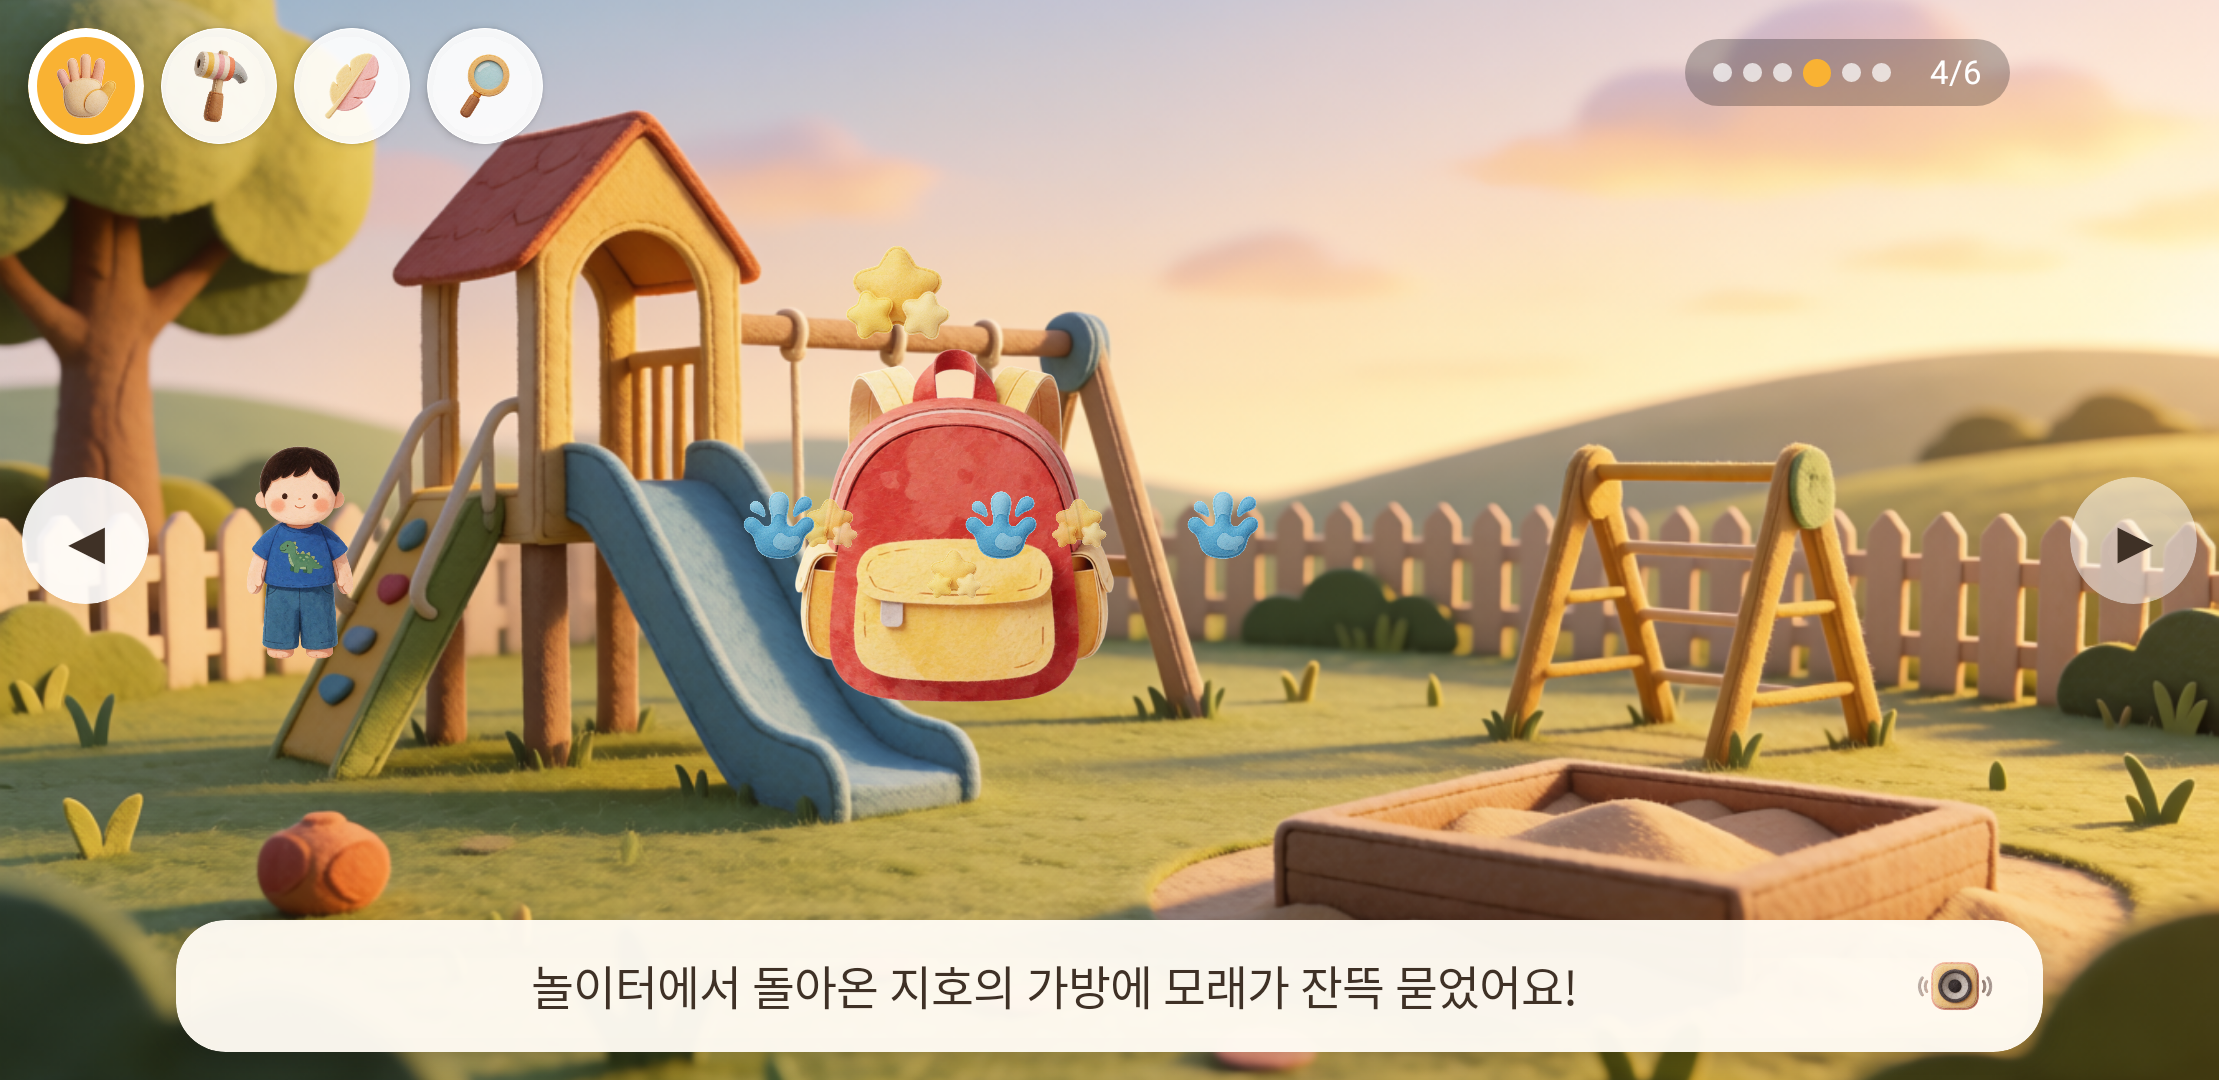
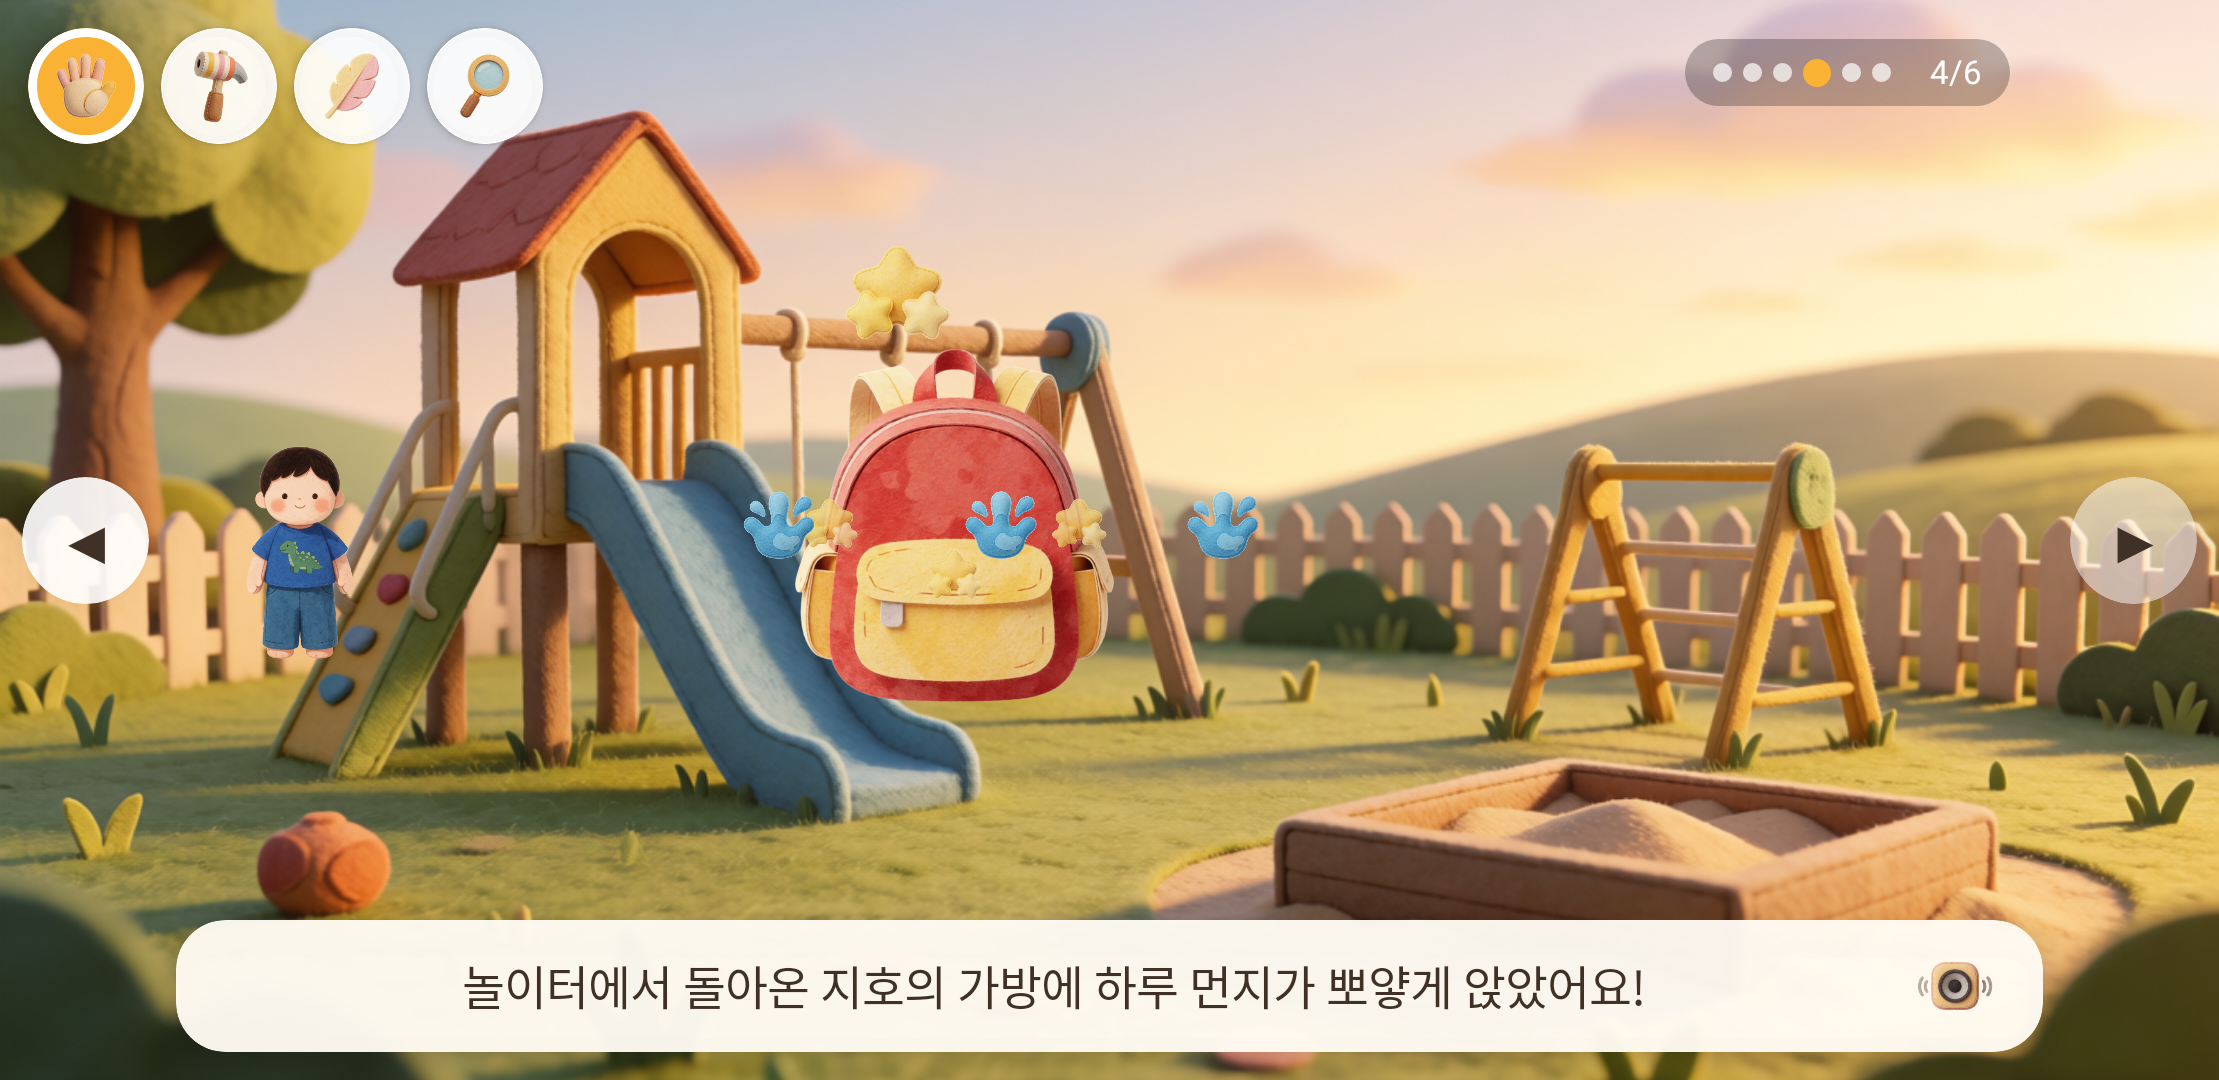
feat: add coherent diary demo flow and truthful fallbacks

Changed region(s): [[0.2177, 0.8861, 0.7463, 0.9472]]

diff --git a/android/app/src/main/java/com/example/finalproject_demo/demo/DiaryBank.kt b/android/app/src/main/java/com/example/finalproject_demo/demo/DiaryBank.kt
@@ -11,7 +11,7 @@ package com.example.finalproject_demo.demo
  * 질문을 왜 늘렸나 (9/21 사용자 요청)
  *   처음 설계는 기승전결 네 질문뿐이었다. 네 문장으로는 책 여섯 쪽을 채울 재료가 안 되고,
  *   빈 자리를 마스코트가 메우는 만큼 **아이의 하루가 아니라 LLM의 문장이 책을 차지한다**.
- *   그래서 **네 자리는 그대로 두고 자리마다 꼬리질문을 붙였다** — 총 열 걸음, 8~12턴.
+ *   그래서 **네 자리는 그대로 두고 자리마다 꼬리질문을 붙였다** — 총 열한 걸음, 8~12턴.
  *   꼬리질문의 답은 슬롯 12종의 `extra`("위 어디에도 안 맞는 것 · 원문 그대로")에 쌓인다.
  *   **새 칸 이름을 만들지 않았다.** 판정 스키마도 평가셋 100개도 그대로다.
  *
@@ -87,7 +87,7 @@ private fun DemoState.hadTrouble(): Boolean {
 }
 
 /**
- * 열 걸음 — 기승전결 네 자리(필수)와 그 사이의 꼬리질문 여섯.
+ * 열한 걸음 — 기승전결 네 자리(필수)와 그 사이의 꼬리질문 일곱.
  *
  * | | 칸 | 묻는 것 | 필수 |
  * |---|---|---|---|
@@ -98,6 +98,7 @@ private fun DemoState.hadTrouble(): Boolean {
  * | 승 | `reaction` | 기분이 어땠어 | |
  * | 전 | `cause` | 왜 그랬을까 (**S1**) | ✅ |
  * | 전 | `extra`(said) | 그 사람이 뭐라고 했어 | |
+ * | 전 | `extra`(try) | 나는 어떻게 해 봤어 | |
  * | 결 | `solution` | 그래서 어떻게 됐어 (S2) | ✅ |
  * | 결 | `extra`(after) | 다 끝나고 뭐 했어 | |
  * | 맺음 | `extra`(keep) | 내일 또 하고 싶은 거 | |
@@ -180,7 +181,7 @@ val DIARY_STEPS: List<DiaryStep> = listOf(
                 Answer("달리다가 넘어져서 무릎 아팠어.", "넘어짐|달리다가 넘어져 무릎이 아팠어요", el = setOf("결과"), emo = "아팠", con = true, lv = 3),
             )
         },
-        mascot = { Answer("재미있게 논 날", "재미있게 놀았어|재미있게 놀았어요") },
+        mascot = { Answer("아직 못 들은 오늘 이야기", "아직 못 들은 일|오늘 있었던 일은 아직 다 듣지 못했어요") },
     ),
 
     DiaryStep(
@@ -242,8 +243,10 @@ val DIARY_STEPS: List<DiaryStep> = listOf(
             // 일이 어긋났을 때만 "왜 그랬을까?" — 그냥 즐거웠던 날에 물으면 물을 데가 없다
             if (it.hadTrouble()) listOf(
                 "왜 그렇게 됐을까?",
-                "$w${eun(w)} 왜 그랬을 것 같아?",
-                "그래서 $c${eun(c)} 어떻게 했어?",
+                if (it.companionKind.isNotBlank() && "혼자" !in it.companionKind)
+                    "$w${eun(w)} 왜 그랬을 것 같아?"
+                else "무엇 때문에 그런 일이 생겼을까?",
+                "그 일이 생기기 전에 무슨 일이 있었어?",
             ) else listOf(
                 "그게 왜 제일 좋았어?",
                 "$c${eun(c)} 그거 할 때 왜 신났을까?",
@@ -256,6 +259,7 @@ val DIARY_STEPS: List<DiaryStep> = listOf(
                 Answer("몰라.", "", lv = 1),
                 Answer("그냥.", "", lv = 1),
                 Answer("실수로 그런 거야.", "실수였어|실수였다고 했어요", reason = true, lv = 2),
+                Answer("블록을 너무 높이 쌓아서 무너졌어.", "너무 높이 쌓아서|블록을 너무 높이 쌓아 무너졌어요", reason = true, el = setOf("계기"), con = true, lv = 3),
                 Answer("나 울었어. 그래서 선생님이 왔어.", "울어서 선생님이 왔어|$c${ga(c)} 울자 선생님이 다가왔어요", el = setOf("시도", "결과"), con = true, lv = 2),
                 Answer("재밌으니까! 빠르니까 좋아.", "빨라서 재밌었어|빠르게 내려가는 게 신나서 좋았어요", reason = true, con = true, lv = 2),
                 Answer("나랑 놀고 싶어서 그랬나 봐.", "같이 놀고 싶었어|같이 놀고 싶어서 그랬대요", reason = true, con = true, lv = 3),
@@ -348,7 +352,7 @@ val DIARY_STEPS: List<DiaryStep> = listOf(
                 Answer("${w}랑 같이 하기로 했어. 그래서 또 놀았어.", "같이 하기로 했어|$w${wa(w)} 같이 하기로 하고 다시 즐겁게 놀았어요", el = setOf("시도", "결과"), con = true, lv = 3),
             )
         },
-        mascot = { Answer("집에 온 것", "그러고 집에 왔어|그러고 나서 집으로 돌아왔어요") },
+        mascot = { Answer("아직 못 들은 뒷이야기", "아직 못 들은 뒷이야기|그 뒤에 어떻게 되었는지는 아직 듣지 못했어요") },
     ),
 
     DiaryStep(
@@ -400,6 +404,24 @@ val DIARY_STEPS: List<DiaryStep> = listOf(
 
 /** 기승전결 네 자리 — 진행 막대와 `story_ready` 가 이것만 센다 */
 val DIARY_REQUIRED = DIARY_STEPS.filter { it.required }
+
+/** One coherent demo day. Each reply also exists in the normal scripted answers. */
+private val DIARY_DEMO_REPLY = mapOf(
+    "place" to "어린이집!",
+    "companion" to "민준이랑 놀았어.",
+    "problem" to "블록 쌓았는데 무너졌어.",
+    "detail" to "높이높이 쌓았어.",
+    "reaction" to "속상했어.",
+    "cause" to "블록을 너무 높이 쌓아서 무너졌어.",
+    "said" to "괜찮냐고 물어봤어.",
+    "try" to "다시 해 봤어.",
+    "solution" to "다시 쌓았어! 이번엔 안 무너졌어.",
+    "after" to "목욕하고 책 읽었어.",
+    "keep" to "내일은 안 무너지게 쌓을 거야. 밑을 튼튼하게 하면 돼.",
+)
+
+fun DiaryStep.demoAnswer(s: DemoState): Answer? =
+    DIARY_DEMO_REPLY[bookKey]?.let { text -> answers(s).firstOrNull { it.text == text } }
 
 /** 순차 답인가 — 잇는 말은 있는데 까닭이 없다. 여기서 S1로 세면 안 된다 (일기 §4-4) */
 fun Answer.isSequential(): Boolean = con && !reason && el.isEmpty()
@@ -468,7 +490,8 @@ fun diaryTemplate(s: DemoState): StoryTemplate {
         // ── 결 · 그래서 어떻게 됐나 ─────────────────────────────
         add(
             PageSpec(PageKind.DRAG) { st ->
-                joinWith("마침내", line(st, "solution", "그러고 나서 하루가 저물었어요.")) + " " + st.m2Caption()
+                val ending = line(st, "solution", "그 뒤의 이야기는 아직 듣지 못했어요.")
+                (if (st.slotBy["solution"] == "mascot") ending else joinWith("마침내", ending)) + " " + st.m2Caption()
             }
         )
         // ── 맺음 · 하루의 끝과 내일 ─────────────────────────────

diff --git a/android/app/src/main/java/com/example/finalproject_demo/demo/DiaryScenes.kt b/android/app/src/main/java/com/example/finalproject_demo/demo/DiaryScenes.kt
@@ -33,7 +33,7 @@ fun Director.diaryEnded(): Boolean {
     return false
 }
 
-/** 기승전결 네 자리가 다 찼나 — 열 걸음을 다 물은 뒤에만 본다 */
+/** 기승전결 네 자리가 다 찼나 — 모든 질문을 다 물은 뒤에만 본다 */
 private fun Director.diaryReadyNow(): Boolean = DIARY_REQUIRED.all { diaryFilled(it.slot) }
 
 /** 답에서 칸 값 꺼내기. "몰라"처럼 값이 없는 답은 빈 문자열이다 */
@@ -128,7 +128,7 @@ suspend fun Director.sceneDiary() {
         say("$c${ya(c)}, 오늘 뭐 했어? 나한테 들려줄래?")
         log("일기 모드 S3′ — 같은 러너 · 같은 판정 · 같은 무응답 흐름을 쓴다. 다른 것은 질문 세트와 칸 목록뿐이다 (일기 §1)")
     }
-    log("열 걸음 — 기승전결 네 자리(필수)와 꼬리질문 여섯. 꼬리질문 답은 슬롯 12종의 `extra` 에 원문으로 쌓여 책의 재료가 된다")
+    log("${DIARY_STEPS.size}걸음 — 기승전결 네 자리(필수)와 꼬리질문 ${DIARY_STEPS.size - DIARY_REQUIRED.size}. 꼬리질문 답은 기존 슬롯의 `extra` 등에 쌓여 책의 재료가 된다")
     log("⚠ 일기 질문은 동화 모드보다 어렵다 — 상상이 아니라 기억을 꺼내야 한다. 같은 아이가 낮은 수준으로 나올 수 있다 (일기 §4-5 · 수준 공유 여부는 §7-3 열린 항목)")
     pause(1700)
 
@@ -179,9 +179,12 @@ private suspend fun Director.askDiaryStep(step: DiaryStep) {
             fallback = step.mascot?.invoke(s),
             spoken = v.answers(s),
             drawAnswer = diaryDrawAnswer(step),
-            extra = listOf(
-                DemoBtn("⏱ (시연) 15분 지난 것으로 — 끝나는 조건 셋째") { s.diaryTimeUp = true; send(Reply.Silent) },
-            ),
+            extra = buildList {
+                if (!s.isCoop) step.demoAnswer(s)?.let { a ->
+                    add(DemoBtn("🎬 오늘 이야기 시연 답 — \"${a.text}\"") { send(Reply.Spoke(a.text, a.value, a)) })
+                }
+                add(DemoBtn("⏱ (시연) 15분 지난 것으로 — 끝나는 조건 셋째") { s.diaryTimeUp = true; send(Reply.Silent) })
+            },
             id = v.id,
         )
         val r = askOrCoopAsk(q)                 // 협업이면 소리 없이 부모 띠에 띄운다 (CoopScenes.kt)
@@ -331,7 +334,7 @@ private suspend fun Director.finishDiary() {
         "timeout" -> "15분 경과"
         else -> "story_ready (기승전결 네 자리)"
     }
-    val tails = listOf("companion", "detail", "reaction", "said", "after", "keep").count { s.slots[it] != null }
+    val tails = DIARY_STEPS.filterNot { it.required }.count { s.slots[it.bookKey] != null }
     log("일기 모드 끝 — 끝난 조건: $why · 아이 · 카드가 채운 필수 칸 $bySelf/4 · 꼬리질문으로 더 모은 문장 ${tails}개 (이만큼 마스코트가 메울 자리가 줄었다)")
     coopFinishLog()                             // 협업 쪽은 CoopScenes.kt (진웅)
     say("오늘 이야기가 다 모였어! 이제 동화책으로 만들어 줄게.")

diff --git a/android/app/src/test/java/com/example/finalproject_demo/DiaryTest.kt b/android/app/src/test/java/com/example/finalproject_demo/DiaryTest.kt
@@ -48,7 +48,7 @@ class DiaryTest {
         partnerKey = partner
     }
 
-    /** 아이가 열 걸음을 다 말한 하루 */
+    /** 아이가 열한 걸음을 다 말한 하루 */
     private fun DemoState.fillAll() {
         placeLabel = "놀이터"; place = "놀이터"; slots["place"] = "놀이터에 갔어요"; slotBy["place"] = "child"
         author["place"] = "child"
@@ -220,6 +220,28 @@ class DiaryTest {
     }
 
     @Test
+    fun whyLadderDoesNotAskAboutAnUnknownFriendOrTheNextAction() {
+        val cause = DIARY_STEPS.first { it.slot == "cause" }
+        val alone = diaryState().apply { problem = "블록이 무너짐"; companionKind = "혼자" }
+        val rungs = cause.rungs(alone)
+        assertTrue("혼자인데 친구의 마음을 묻는다", rungs.none { "그 친구" in it })
+        assertTrue("까닭 질문에서 다음 행동을 묻는다", rungs.none { "어떻게 했어" in it })
+    }
+
+    @Test
+    fun silenceFallbacksDoNotRecordUnreportedActivitiesAsFacts() {
+        val s = diaryState()
+        val problem = DIARY_STEPS.first { it.slot == "problem" }.mascot!!.invoke(s).value
+        val solution = DIARY_STEPS.first { it.slot == "solution" }.mascot!!.invoke(s).value
+        assertFalse("놀았다는 말을 듣지 않았는데 기록했다", "놀았" in problem)
+        assertFalse("집에 왔다는 말을 듣지 않았는데 기록했다", "집에 왔" in solution)
+        s.solution = diarySlotOf(solution)
+        s.slots["solution"] = diaryLineOf(solution)!!
+        s.slotBy["solution"] = "mascot"
+        assertFalse("답을 못 들은 쪽에 '마침내'가 붙었다", s.bookCaption(5).startsWith("마침내"))
+    }
+
+    @Test
     fun theMascotNeverInventsAPlaceOrAPerson() {
         // 일기 §3-2 — 데이터는 by 가 지켜 주지만, 아이가 가지 않은 곳이 그 아이의 하루로 적히는 것은 내용 문제다
         val place = DIARY_STEPS.first { it.slot == "place" }.mascot!!.invoke(diaryState())
@@ -265,6 +287,7 @@ class DiaryTest {
         // 미션 1 — ① 아이가 말한 일이 먼저다 (9/21: 장소만 보다가 엉뚱한 미션이 나왔다)
         assertEquals("물감", diaryState().apply { placeLabel = "놀이터"; problem = "그림 그리기" }.mission1().blobName)
         assertEquals("모래", diaryState().apply { placeLabel = "어린이집"; problem = "모래놀이" }.mission1().blobName)
+        assertEquals("블록 놀이를 물감 놀이로 바꿨다", "먼지", diaryState().apply { placeLabel = "어린이집"; problem = "블록이 무너짐" }.mission1().blobName)
         // ② 말한 일에서 못 찾으면 장소에서
         assertEquals("모래", diaryState().apply { placeLabel = "놀이터" }.mission1().blobName)
         assertEquals("물감", diaryState().apply { placeLabel = "어린이집" }.mission1().blobName)

diff --git a/android/app/src/main/java/com/example/finalproject_demo/demo/Behind.kt b/android/app/src/main/java/com/example/finalproject_demo/demo/Behind.kt
@@ -49,13 +49,13 @@ fun behindText(scene: Scene): String = when (scene) {
           아이가 가지 않은 곳이 그 아이의 하루로 적히는 것은 **내용 문제**다 [§3-2]
         • 빈 자리는 이야기로 메우고 `by: mascot`으로 남긴다 → 책 자막에는 나오고
           주고받기 횟수 · 수준 신호 · 리포트 원문 인용 · 「말한 방식」 원그래프에서는 빠진다 [§5 · §5-1]
-        • **열 걸음** — 기승전결 네 자리(필수) + 꼬리질문 여섯(누구랑 · 뭐 하고 있었어 · 기분 · 뭐라고 했어 · 다 끝나고 · 내일)
-          꼬리질문 답은 슬롯 12종의 `extra` 에 원문으로 쌓여 **책의 재료가 된다.** 새 칸 이름은 만들지 않았다
+        • **열한 걸음** — 기승전결 네 자리(필수) + 꼬리질문 일곱(누구랑 · 뭐 하고 있었어 · 기분 · 뭐라고 했어 · 내가 해 본 일 · 다 끝나고 · 내일)
+          꼬리질문 답은 기존 슬롯의 `extra` 등에 쌓여 **책의 재료가 된다.** 새 칸 이름은 만들지 않았다
         • **흐름은 앞 답에서 나온다** — 장소를 들으면 "{장소}에서 무슨 일이 있었어?", 사람을 들으면 "{누구}가 뭐라고 했어?"가 열리고,
           아무도 없었으면 그 걸음을 건너뛴다. 일이 어긋났을 때만 "왜 그랬을까?", 그냥 즐거웠으면 "그게 왜 제일 좋았어?"
         • 배경은 아이가 말한 곳에 맞춘다 (놀이터 · 어린이집 · 할머니 집 · 공원 · 마트 · 집).
           실제 앱은 세션 중에 만들고(규칙 8), 데모는 미리 만든 6장에서 고른다. 맞는 게 없으면 **엉뚱한 곳을 보여 주지 않고** 색으로 둔다
-        • 미션도 하루에서 나온다 — 놀이터면 모래, 어린이집이면 물감, 공원이면 나뭇잎을 턴다.
+        • 미션은 아이가 말한 일을 먼저 본다. 말한 일에서 못 찾았을 때만 놀이터면 모래, 어린이집이면 물감, 공원이면 나뭇잎을 턴다.
           건넬 것도 아이가 말한 것에서: 블록 · 그림책 · 반창고 · 딸기 · 별
         • 아직 안 정한 것: §7-3 수준 공유 · §7-4 완전 무응답 · §7-5 15분 · §7-6 사다리 뒤 그림 3장 · §7-2 월 권수
 

diff --git a/android/app/src/test/java/com/example/finalproject_demo/DiaryFlowTest.kt b/android/app/src/test/java/com/example/finalproject_demo/DiaryFlowTest.kt
@@ -3,6 +3,7 @@ package com.example.finalproject_demo
 import com.example.finalproject_demo.demo.Director
 import com.example.finalproject_demo.demo.Scene
 import com.example.finalproject_demo.demo.StoryMode
+import com.example.finalproject_demo.demo.bookCaption
 import com.example.finalproject_demo.demo.pageCount
 import kotlinx.coroutines.CoroutineScope
 import kotlinx.coroutines.SupervisorJob
@@ -137,6 +138,33 @@ class DiaryFlowTest {
         assertTrue("아이 말이 인용으로 남지 않았다", s.quotes.isNotEmpty())
         // 배경이 아이가 말한 곳을 따라갔는가
         assertNotEquals("배경이 상상 세계 그대로다", "bg_space", s.bgName)
+    }
+
+    @Test
+    fun diaryDemoAnswersTellOneConsistentDayThroughTheBook() = run { d ->
+        val s = d.s
+        s.mode = StoryMode.DIARY
+        d.go(Scene.DIARY)
+        assertTrue(await { s.buttons.any { "🎬 오늘 이야기 시연 답" in it.label } } != null)
+
+        val turns = d.answerAll("🎬 오늘 이야기 시연 답")
+        assertEquals("시연 답이 모든 질문을 끝까지 잇지 못했다", 11, turns)
+        assertTrue(await { s.buttons.any { "안 그릴래" in it.label } } != null)
+        assertTrue(d.tap("안 그릴래"))
+        assertTrue(await(8_000) { s.scene == Scene.MAKING || s.scene == Scene.BOOK } != null)
+
+        assertEquals("어린이집", s.place)
+        assertEquals("민준이", s.companionKind)
+        assertEquals("블록이 무너짐", s.problem)
+        assertEquals("너무 높이 쌓아서", s.cause)
+        assertEquals("다시 쌓았어", s.solution)
+        assertEquals("story_ready", s.endReason)
+        assertTrue(listOf("place", "problem", "cause", "solution").all { s.slotBy[it] == "child" })
+
+        val book = (1..s.pageCount).joinToString(" ") { s.bookCaption(it) }
+        assertTrue("아이의 블록 이야기가 책에 없다", "블록" in book && "무너" in book)
+        assertTrue("친구가 책에 없다", "민준이" in book)
+        assertTrue("해결 장면이 책에 없다", "다시 쌓" in book)
     }
 
     @Test

diff --git a/android/app/src/main/java/com/example/finalproject_demo/demo/Missions.kt b/android/app/src/main/java/com/example/finalproject_demo/demo/Missions.kt
@@ -58,6 +58,8 @@ private fun diaryMission1(s: DemoState): Mission1 {
         "나뭇잎" in said || "낙엽" in said || "나무" in said || "풀" in said -> leaf
         "물" in said || "비" in said || "웅덩이" in said || "수영" in said -> water
         "밥" in said || "간식" in said || "과자" in said || "먹었" in said -> crumb
+        // Blocks do not stain the bag; do not infer paint from the daycare setting.
+        "블록" in said || "쌓" in said -> dust
         // ② 없으면 장소
         "놀이터" in p -> sand
         "어린이집" in p || "유치원" in p || "학교" in p -> paint
